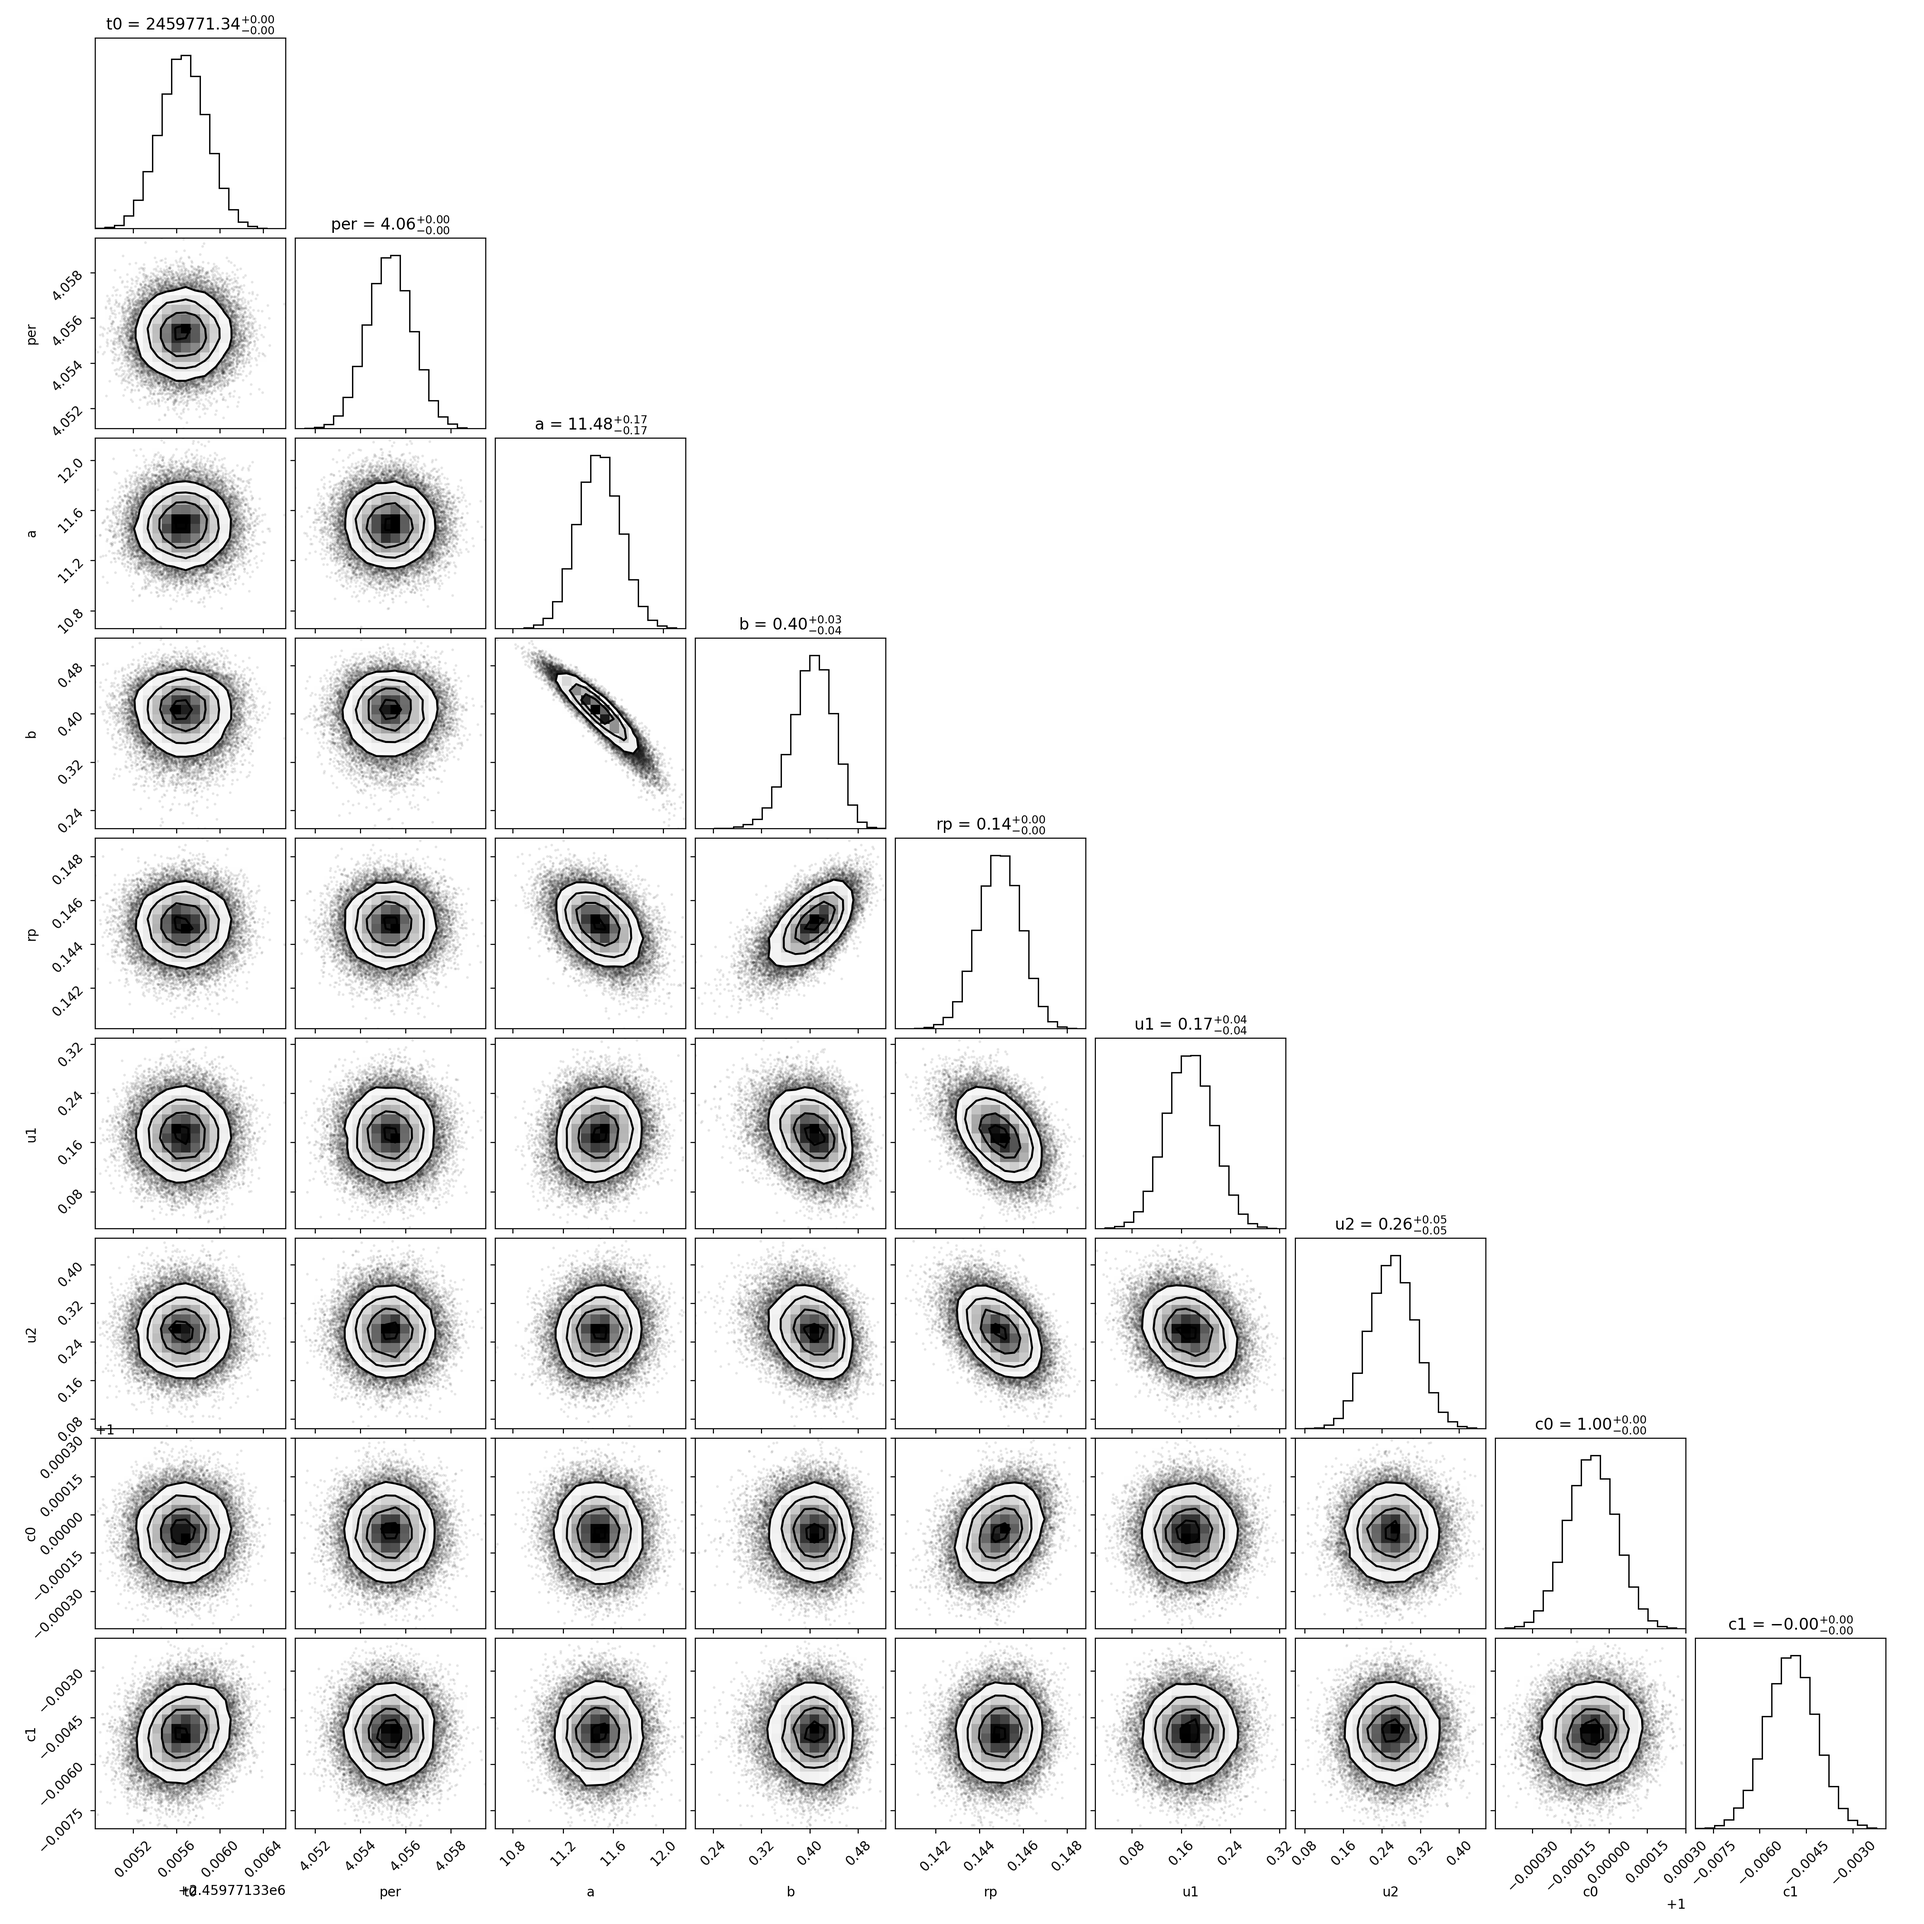
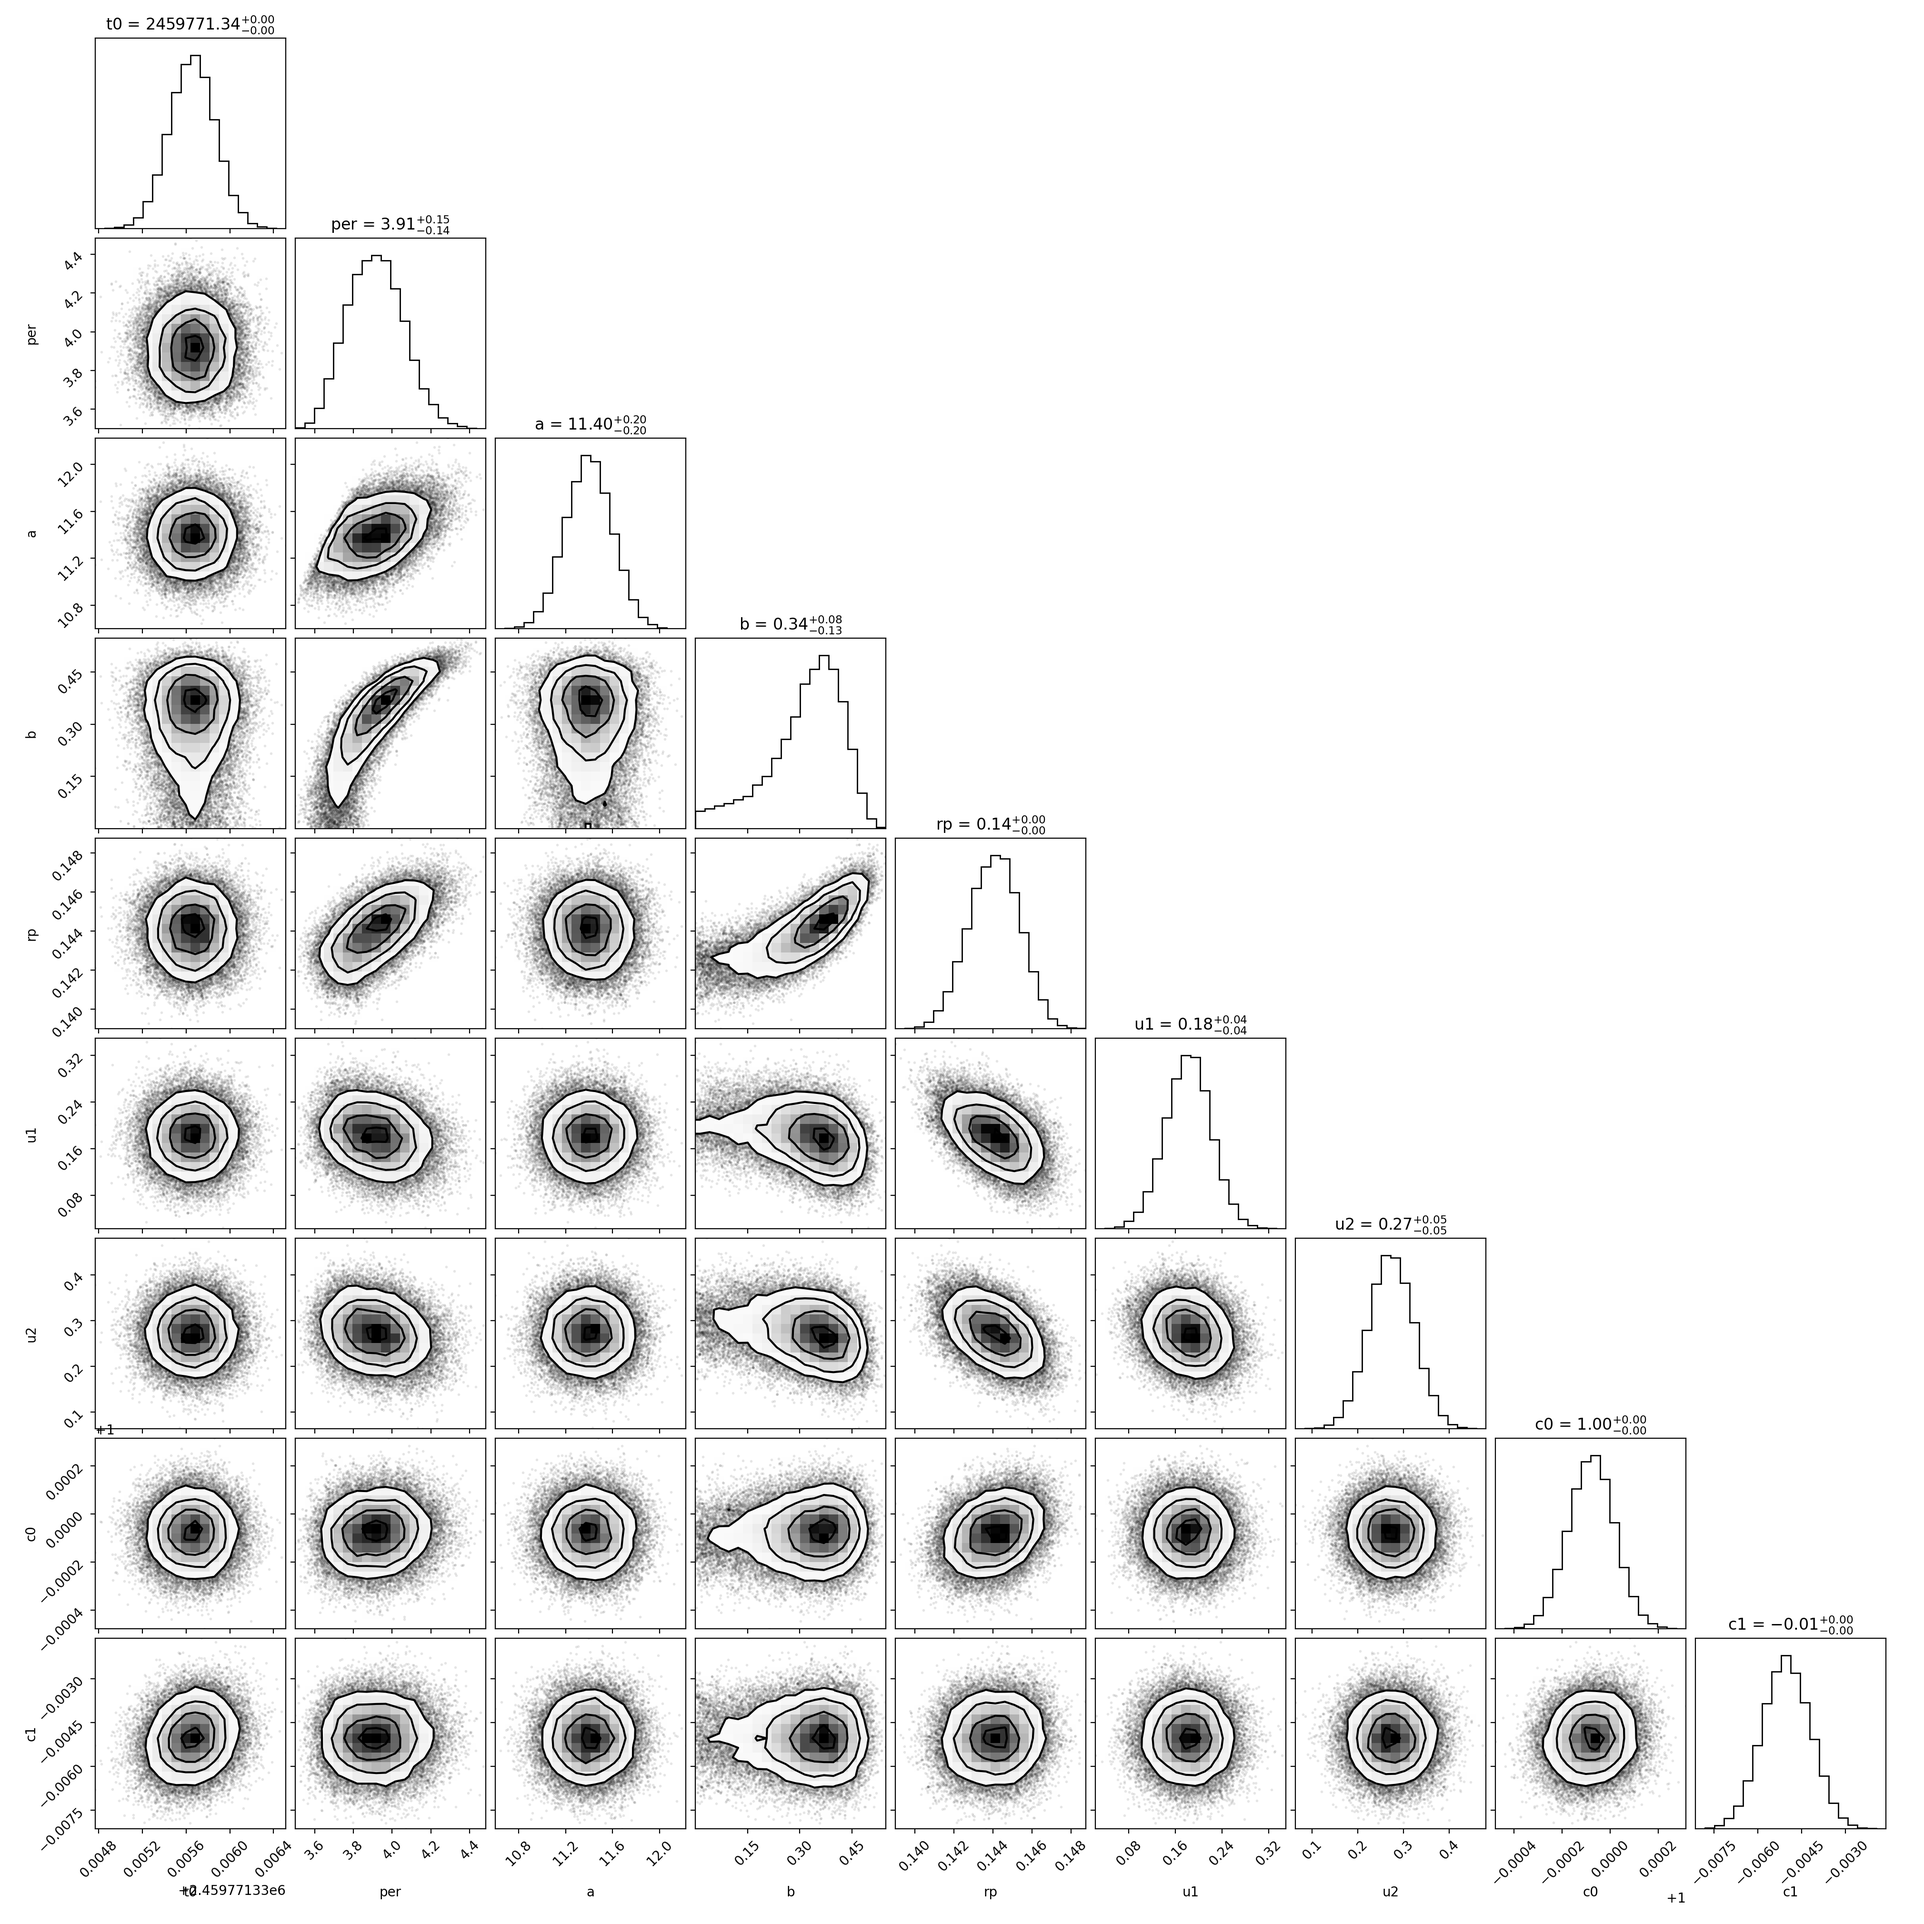
Added tons of new data for PLATON forward models with model residuals in ppm that we can use for our presentation

Changed region(s): [[0.0312, 0.1248, 0.8733, 0.9668], [0.9356, 0.9356, 0.9668, 0.9668], [0.4054, 0.3119, 0.4366, 0.3431]]

diff --git a/src/wasp39/main.py b/src/wasp39/main.py
@@ -88,31 +88,42 @@ def run_white_light(ctx: dict, t, flux, flux_err, tag: str) -> None:
 
 
 def Step4(ctx: dict) -> None:
-    mode = ctx.get("white_light_mode", "both")  # "unbinned", "binned", or "both"
-    propagate = ctx.get("white_light_propagate", None)  # "unbinned" or "binned" (optional)
+    mode = ctx.get("white_light_mode", "both")
+    propagate = ctx.get("white_light_propagate", None)
 
     print(f"STEP 4 — Run white-light MCMC (mode={mode})")
+    if "cfg_init" not in ctx or "rp_init" not in ctx:
+        # Fallback: reproduce Step3 init so Step4 can be run standalone
+        if "bjd_b" in ctx and "white_b" in ctx and "white_be" in ctx:
+            t0_init = float(ctx["bjd_b"][int(np.nanargmin(ctx["white_b"]))])
+            cfg = TransitConfig(
+                t0=t0_init, per=4.055294, a=11.39, inc=87.32, u=(0.3, 0.1), limb_dark="quadratic"
+            )
+            rp_init = 0.1457
+            ctx.update(cfg_init=cfg, rp_init=rp_init)
+        else:
+            raise RuntimeError(
+                "Step4 needs cfg_init/rp_init. Run Step3 first (and Step2 if using binned mode)."
+            )
 
-    u1_mu, u2_mu = 0.25, 0.30   # replace later with theory values
-    u_sigma = 0.05              # conservative, but effective
 
-    per_mu = float(ctx["cfg_init"].per)
-    per_sigma = 0.001  # days (~2.9 minutes). adjust if needed
+    u1_mu, u2_mu = 0.25, 0.30
+    u_sigma = 0.05
+
+    # Fixed (NOT sampled)
+    per_fixed = 4.1055294
 
     a_mu = float(ctx["cfg_init"].a)
-    a_sigma = 0.20  # tune if needed
+    a_sigma = 0.20
 
     def derive_inc_deg(a: float, b: float) -> float:
-        # b = a*cos(i)  -> i = arccos(b/a)
-        cosi = b / a
-        cosi = float(np.clip(cosi, -1.0, 1.0))
+        cosi = float(np.clip(b / a, -1.0, 1.0))
         return float(np.degrees(np.arccos(cosi)))
 
     def print_best_params(tag: str, labels: list, best_params: np.ndarray, inc_deg: float) -> None:
         vals = dict(zip(labels, best_params))
         print(f"\n[white-light best-fit | {tag}]")
         print(f"  t0  = {vals['t0']:.8f}")
-        print(f"  per = {vals['per']:.8f} d")
         print(f"  a   = {vals['a']:.6f} (a/R*)")
         print(f"  b   = {vals['b']:.6f}")
         print(f"  inc = {inc_deg:.6f} deg  (derived from b/a)")
@@ -127,7 +138,7 @@ def Step4(ctx: dict) -> None:
             t=t,
             flux=flux,
             flux_err=flux_err,
-            cfg_init=ctx["cfg_init"],
+            cfg_init=ctx["cfg_init"],  # still contains fixed per
             rp_init=ctx["rp_init"],
             nwalkers=64,
             nsteps_burn=3000,
@@ -136,19 +147,15 @@ def Step4(ctx: dict) -> None:
             progress=True,
             u_gauss_mu=(u1_mu, u2_mu),
             u_gauss_sigma=u_sigma,
-            per_gauss_mu=per_mu,
-            per_gauss_sigma=per_sigma,
             a_gauss_mu=a_mu,
             a_gauss_sigma=a_sigma,
         )
 
-        # Expect: labels == ["t0","per","a","b","rp","u1","u2","c0","c1"]
-        # Derive inclination from best-fit (a,b)
-        a_best = float(best_params[2])
-        b_best = float(best_params[3])
+        # labels == ["t0","a","b","rp","u1","u2","c0","c1"]
+        a_best = float(best_params[1])
+        b_best = float(best_params[2])
         inc_best = derive_inc_deg(a_best, b_best)
 
-        # Print best-fit summary
         print_best_params(tag, labels, best_params, inc_best)
 
         save_corner(
@@ -162,12 +169,12 @@ def Step4(ctx: dict) -> None:
             f"Best-fit + residuals ({tag})"
         )
 
-        # Save best-fit so Step5/6 can run without rerunning MCMC
         out_npz = os.path.join(ctx["out"], f"white_light_bestfit_{tag}.npz")
 
-        # Save original best_params plus an "inc" appended version
         labels_with_inc = list(labels) + ["inc"]
-        best_params_with_inc = np.concatenate([best_params.astype(float), np.array([inc_best], dtype=float)])
+        best_params_with_inc = np.concatenate(
+            [best_params.astype(float), np.array([inc_best], dtype=float)]
+        )
 
         np.savez(
             out_npz,
@@ -182,33 +189,28 @@ def Step4(ctx: dict) -> None:
             u_gauss_mu=np.array([u1_mu, u2_mu], dtype=float),
             u_gauss_sigma=np.array([u_sigma], dtype=float),
 
-            per_gauss_mu=np.array([per_mu], dtype=float),
-            per_gauss_sigma=np.array([per_sigma], dtype=float),
             a_gauss_mu=np.array([a_mu], dtype=float),
             a_gauss_sigma=np.array([a_sigma], dtype=float),
         )
-        print(f"Saved white-light best-fit ({tag}) to: {out_npz}\n")
 
+        print(f"Saved white-light best-fit ({tag}) to: {out_npz}\n")
         return best_params, inc_best
 
     results = {}
 
     if mode in ("unbinned", "both"):
-        best_params, inc_best = run_white_light(
+        results["unbinned"] = run_white_light(
             ctx["bjd"], ctx["white"], ctx["white_e"], "unbinned"
         )
-        results["unbinned"] = (best_params, inc_best)
 
     if mode in ("binned", "both"):
-        best_params, inc_best = run_white_light(
+        results["binned"] = run_white_light(
             ctx["bjd_b"], ctx["white_b"], ctx["white_be"], "binned"
         )
-        results["binned"] = (best_params, inc_best)
 
     if not results:
-        raise ValueError(f"Invalid white_light_mode={mode!r}. Use 'unbinned', 'binned', or 'both'.")
+        raise ValueError(f"Invalid white_light_mode={mode!r}")
 
-    # Decide which solution to propagate
     if propagate is None:
         propagate = next(iter(results.keys())) if len(results) == 1 else "unbinned"
 
@@ -218,23 +220,27 @@ def Step4(ctx: dict) -> None:
         )
 
     best_params, inc_best = results[propagate]
-    ctx["white_light_tag"] = propagate  # useful for later steps if you want
+    ctx["white_light_tag"] = propagate
 
-    # Unpack sampled params: t0, per, a, b, rp, u1, u2, c0, c1
-    t0, per, a, b, rp, u1, u2, *_ = best_params
+    # Unpack: t0, a, b, rp, u1, u2, ...
+    t0, a, b, rp, u1, u2, *_ = best_params
 
     ctx["cfg"] = TransitConfig(
         t0=float(t0),
-        per=float(per),
+        per=per_fixed,          # FIXED, not sampled
         a=float(a),
-        inc=float(inc_best),  # derived
+        inc=float(inc_best),
         u=(float(u1), float(u2)),
         limb_dark="quadratic",
     )
+
     ctx["rp_fit"] = float(rp)
 
     print(f"Propagating white-light solution: {propagate}")
-    print(f"Derived inclination used for cfg: inc={inc_best:.6f} deg (b={float(b):.6f}, a={float(a):.6f})")
+    print(
+        f"Using fixed period per={per_fixed:.8f} d | "
+        f"Derived inc={inc_best:.6f} deg (b={float(b):.6f}, a={float(a):.6f})"
+    )
 
 
 def Step5(ctx: dict, *, n_wl_bins: int, spec_time_bin: int, white_tag: str = "unbinned") -> None:

diff --git a/src/run.py b/src/run.py
@@ -9,7 +9,7 @@ def main():
         #"--steps", "0,1,2,3,4",
         #"--steps", "0,1,2,3",
         #"--steps", "0,1,2"
-        "--steps", "0,1,2,3"
+        "--steps", "0,1,2,3,4"
     ]
 
     from wasp39.main import main as pipeline_main
